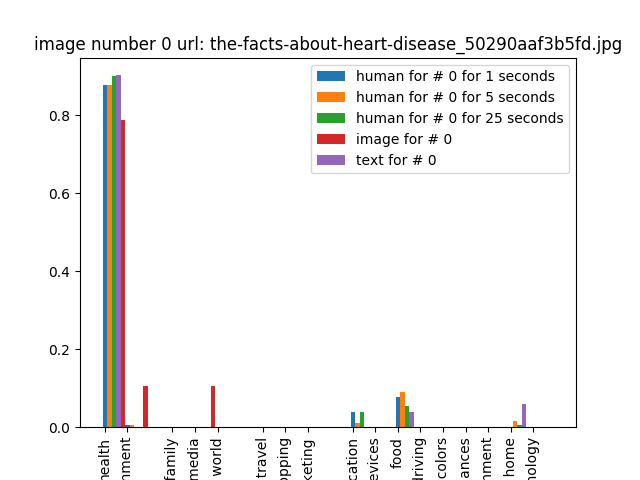
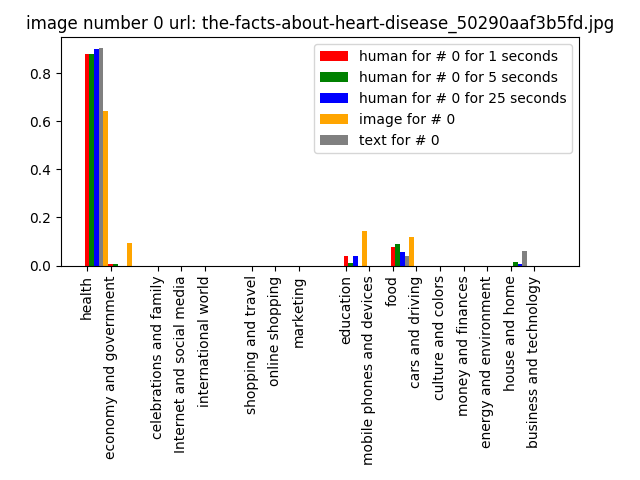
update the results and also include notes on observations for each image

diff --git a/minimize_divergence.py b/minimize_divergence.py
@@ -100,14 +100,18 @@ def get_text():
     
 def get_image():
     content = open(IMAGE_PATH).readlines()
-    images = {image_id: {int(cat):0 for cat in categories} for image_id in range(NUM_IMAGES)}
+    images = {image_id: {int(cat):0 for cat in info_to_cats[str(image_id)]} for image_id in range(NUM_IMAGES)}
     for line in content:
         stuff = line.split()
         if len(stuff) >=5:
             id_ = url_to_id[stuff[0]]
-            images[id_][int(stuff[2])]+= 5
-            images[id_][int(stuff[3])]+= 0
-            images[id_][int(stuff[4])]+= 0
+            cat1, cat2, cat3 = int(stuff[2]), int(stuff[3]), int(stuff[4])
+            if cat1 in images[id_]:
+                images[id_][cat1]+= 5
+            if cat2 in images[id_]:
+                images[id_][cat2]+= 2
+            if cat3 in images[id_]:
+                images[id_][cat3]+= 0
     for im, dist in images.items():
         images[im] = Dist(dist)
         images[im].renormalize()
@@ -121,6 +125,7 @@ url_to_id = json.load(open('infographic_url_to_id_map.json'))
 id_to_url = json.load(open('infographic_id_to_url_map.json'))
 categories_edited = json.load(open(CATEGORIES_PATH))
 categories = {int(cat):val for cat, val in categories_edited.items()}
+info_to_cats = json.load(open('info_to_cats_dict.json'))
 
 text_dist = get_text()
 image_dist = get_image()
@@ -150,18 +155,20 @@ alphas_i_mse = {i: {time: [loss(text_dist, image_dist, human[time], alpha, [i], 
 
 grid_number = [i for i in categories.keys()]
 width = .2
+colors = ['red', 'green', 'blue', 'orange', 'gray', 'purple']
 for im in range(NUM_IMAGES):
     w = 0
     for time, im_dist in human.items():
         #for im, dist_ in im_dist.items():
         dist_ = im_dist[im]
-        plt.bar([g+w*width for g in grid_number], dist_.values(), width, label=f'human for # {im} for {time} seconds')
+        plt.bar([g+w*width for g in grid_number], dist_.values(), width, color=colors[w], label=f'human for # {im} for {time} seconds')
         w+=1
     plt.title(f'image number {im} url: {id_to_url[str(im)]}')
     plt.xticks(grid_number, [categories[i] for i in grid_number], rotation='vertical')
-    plt.bar([g+4*width for g in grid_number], image_dist[im].values(), width, label=f'image for # {im}')
-    plt.bar([g+3*width for g in grid_number], text_dist[im].values(), width, label=f'text for # {im}')
+    plt.bar([g+4*width for g in grid_number], image_dist[im].values(), width, color=colors[3], label=f'image for # {im}')
+    plt.bar([g+3*width for g in grid_number], text_dist[im].values(), width, color=colors[4], label=f'text for # {im}')
     plt.legend()
+    plt.tight_layout()
     plt.plot()
     plt.savefig(f'results/distribution_im{im}.png')
     plt.close()
@@ -190,13 +197,12 @@ for im in range(NUM_IMAGES):
 #                   for time in INTERVALS}
 opt_alphas_mse = {time: get_alpha(text_dist, image_dist, human[time], mse).x
                   for time in INTERVALS}
-colors = ['red', 'green', 'orange', 'blue', 'gray', 'purple']
 for j, i in enumerate(INTERVALS):
     # print(f'{opt_alphas_div[i]} is optimal for {i} seconds with divergence loss')
     print(f'{opt_alphas_mse[i]} is optimal for {i} seconds with mse loss')
     print(f'mse: {loss(text_dist, image_dist, human[i], opt_alphas_mse[i], list(range(NUM_IMAGES)), mse)}')
-    plt.plot(alpha_values, alphas_div[i], label=f'{i} div', color=colors[j])
-    plt.plot(alpha_values, alphas_mse[i], label=f'{i} mse', color=colors[-j-1])
+    #plt.plot(alpha_values, alphas_div[i], label=f'{i} div', color=colors[-j-1])
+    plt.plot(alpha_values, alphas_mse[i], label=f'{i} mse', color=colors[j])
 plt.legend()
 plt.plot()
 plt.savefig(f'results/loss_all_images_averaged.png')

diff --git a/README.md b/README.md
@@ -18,3 +18,51 @@ User study is located in another repo for ease of deploying. Find it here: https
 Notes about improvements/confusions/comments about the data set and its use:- Some of the images in the dataset of scraped icons from Google do not work (cause errors when trying to load using pytorch's ImageFolder loader). TODO: make a list of thsese problem images 
 - It was unclear to me where to find the links for some of the data files (those in `links_to_data_files.md`. Maybe there should be a brief description in the README of all data files, what they contain, their size, where they are located, etc. 
 - I was confused between some of the data files. For instance, for some infographics, there are computer-generated icon proposals as well as human-labeled icons and originally I used the wrong data inadvertently. See above comment about an index of data files.
+
+
+
+## Analysis
+image 0: All the predictions and distributions line up very well. It is unclear if this is
+statistically significant but the topics are immediately obvious in this image. The topic are
+slightly better with 25 seconds than 5 than 1, which matches our hypothesis, but not by much.
+
+image 1: everyone thought it was about the environment regardless of how long they looked at it. So
+the distributions are all very close. The images were not environmental so the image distribution is
+far off from human intuition. This is an example of the model failing b/c visual content was not
+well represented by the icons, but likely the most important visual element here was the green
+hills.
+
+image 2: The two general categories are correct, but humans gravitate towards family more and more
+whereas LDA on the text predicted a stronger health category than family. The text gave a lot of
+meaning, but the images did not. However, LDA on the text was not a good predictor of human
+cognition
+
+image 3:  Hunter/Farmers and Marketing. Our textual andimage predictions are not good modelers of
+human cognition in this case.
+
+image 4: Words about food are more present than words about health, but the infographic is actually
+trying to tell you about health. But both text LDA and the image categories say its about food.
+People can extrapolate its actually about health with more time, so with more time the text-image
+model does a worse job modeling the higher level of human cognition
+
+image 5: Here our model does a good job predicting categories regardless of image and textual data.
+
+image 6: This is an example where our hypothesis holds to a decent amount and we see the inflection
+point and trade-off from image to text data quite clearly
+
+image 7: Image prediction is monotic and doesn't add any information, so the textual data is a much
+better model of human cognition in this case.
+
+image 8: This one has a clear demonstration that the textual data is really important. The images
+are quite misleading and so the match to the textual LDA preditions is significantly better with 25
+seconds instead of 1 or 5 sec. This has interesting implications as a measurement of human
+confusion.
+
+image 9: Here our model matches human predictions really well. We see small error across the board.
+
+image 10: This provides a tiny amount of info that perhap LDA on text matches short simple human
+cognition when people don't have a ton of time to look at the image. Overall error is low so the
+model matches human predictions well.
+
+image 11: Unconfusing and unambiguous infographic: text and images don't diverge a lot and humans
+can understand the main topics quickly without the need for more time. This one is understandable at a glance.
